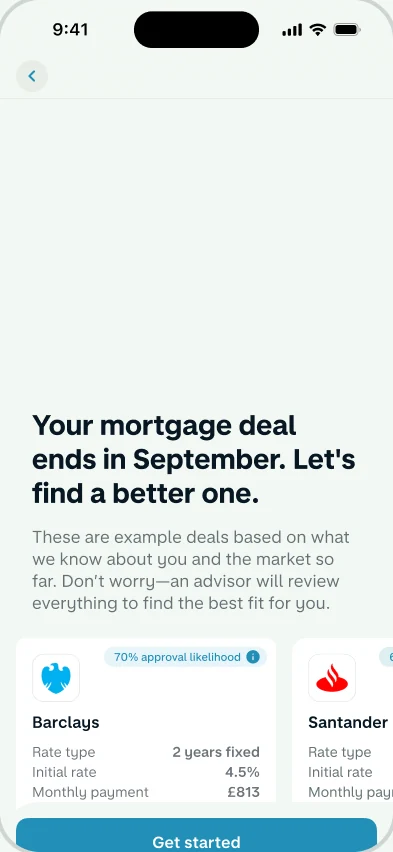
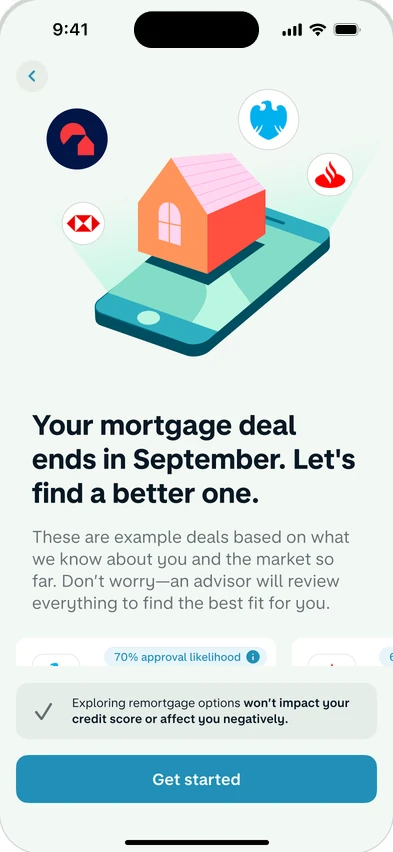
Remortgaging: real vision screen from Figma; complete the 'Your home' mock (update row, carousel, timeline, tab bar)
Claude-Session: https://claude.ai/code/session_019ui8k75LH47Bs5M9Jt4ABB

diff --git a/mortgage-rates.js b/mortgage-rates.js
@@ -41,8 +41,12 @@
   <div class="rt-pane rt-home" data-pane="0">
     <div class="rt-bar">${back}<b>${c('Your home', 'Tu casa')}</b></div>
     <div class="rt-card rt-mortgage"><div class="rt-card-head"><b>${c('Mortgage', 'Hipoteca')}</b></div>
-      <div class="rt-li">${bank}<span class="rt-li-text">${c('Your lender', 'Tu entidad')}<small>${c('£74,950 paid off · 37%', '£74.950 pagados · 37%')}</small></span><b class="rt-big">-£125,050</b></div></div>
-    <div class="rt-card rt-promo"><img src="${A}rates-banner.webp" alt="" width="620" height="306"><div class="rt-promo-body"><b>${c('See current mortgage rates', 'Mira los tipos hipotecarios actuales')}</b><p>${c('Compare mortgage rates personalised to your situation and the market. Estimates provided by Habito.', 'Compara tipos hipotecarios personalizados según tu situación y el mercado. Estimaciones de Habito.')}</p><span class="rt-soft" data-tap="try">${c('Try now', 'Probar')}</span></div></div>
+      <div class="rt-li">${bank}<span class="rt-li-text">${c('Your lender', 'Tu entidad')}<small>${c('£74,950 paid off · 37%', '£74.950 pagados · 37%')}</small></span><b class="rt-big">-£125,050</b></div>
+      <div class="rt-li rt-li-sep"><span class="rt-li-text">${c('Includes April’s payments', 'Incluye los pagos de abril')}<small>${c('Next update from your lender in 1 week', 'Próxima actualización de tu entidad en 1 semana')}</small></span><span class="rt-info rt-info-sm">i</span></div></div>
+    <div class="rt-carousel"><div class="rt-card rt-peek" aria-hidden="true"><span class="rt-peek-art"></span><i></i><i></i><i></i></div>
+    <div class="rt-card rt-promo"><img src="${A}rates-banner.webp" alt="" width="620" height="306"><div class="rt-promo-body"><b>${c('See current mortgage rates', 'Mira los tipos hipotecarios actuales')}</b><p>${c('Compare mortgage rates personalised to your situation and the market. Estimates provided by Habito.', 'Compara tipos hipotecarios personalizados según tu situación y el mercado. Estimaciones de Habito.')}</p><span class="rt-soft" data-tap="try">${c('Try now', 'Probar')}</span></div></div><div class="rt-card rt-peek rt-peek-next" aria-hidden="true"><span class="rt-peek-art"></span><b>${c('Track your remortgage', 'Sigue tu cambio de hipoteca')}</b><i></i><i></i></div></div>
+    <div class="rt-card rt-timeline" aria-hidden="true"><div class="rt-card-head"><b>${c('Timeline', 'Cronología')}</b><span class="rt-dots">•••</span></div><div class="rt-li"><span class="rt-check">✓</span><span class="rt-li-text">${c('Start of current deal', 'Inicio de la oferta actual')}<small>${c('June 2023', 'Junio de 2023')}</small></span></div></div>
+    <nav class="rt-tabs" aria-hidden="true"><span class="is-on"><svg viewBox="0 0 24 24" width="22" height="22"><path d="M4 10.5 12 4l8 6.5V20h-5.5v-6h-5v6H4z" fill="currentColor"/></svg>${c('Home', 'Inicio')}</span><span><svg viewBox="0 0 24 24" width="22" height="22"><path d="M12 21v-8m0 0c0-4 3-6 7-6 0 4-3 6-7 6Zm0 0C12 9 9.5 7 5.5 7c0 4 2.5 6 6.5 6Z" fill="none" stroke="currentColor" stroke-width="2" stroke-linejoin="round"/></svg>${c('Grow', 'Crecer')}</span><span><svg viewBox="0 0 24 24" width="22" height="22"><path d="M4 8h13m0 0-3-3m3 3-3 3M20 16H7m0 0 3-3m-3 3 3 3" fill="none" stroke="currentColor" stroke-width="2" stroke-linecap="round" stroke-linejoin="round"/></svg>${c('Payments', 'Pagos')}</span><span><svg viewBox="0 0 24 24" width="22" height="22"><path d="M9 9a3 3 0 1 1 4.5 2.6c-.9.5-1.5 1.2-1.5 2.2V15M12 19h.01" fill="none" stroke="currentColor" stroke-width="2.2" stroke-linecap="round"/></svg>${c('Help', 'Ayuda')}</span></nav>
   </div>
   <div class="rt-pane rt-rates" data-pane="1"><div class="rt-scroll">
     <div class="rt-bar rt-bar-plain">${back}<span class="rt-info">i</span></div>

diff --git a/case-study-mortgages.html b/case-study-mortgages.html
@@ -3,7 +3,7 @@
 <title>Remortgaging at Monzo — Laura Sampedro</title><meta name="description" content="How I led design for remortgaging at Monzo through a strategy reset and an acquisition, and found that the real problem was the decision, not the referral.">
 <link rel="preconnect" href="https://fonts.googleapis.com"><link rel="preconnect" href="https://fonts.gstatic.com" crossorigin><link href="https://fonts.googleapis.com/css2?family=DM+Sans:ital,wght@0,400;0,500;0,700;1,400&family=Libre+Baskerville:ital,wght@0,400;1,400&family=Fragment+Mono&display=swap" rel="stylesheet">
 <link rel="stylesheet" href="styles.css"><link rel="stylesheet" href="case-study.css?v=2"><link rel="stylesheet" href="flex.css?v=4">
-<link rel="stylesheet" href="mortgages.css?v=8"><link rel="stylesheet" href="case-experience.css?v=2"><link rel="stylesheet" href="mortgage-tracker.css?v=4"><link rel="stylesheet" href="mortgage-onboarding.css?v=8"><link rel="stylesheet" href="mortgage-rates.css?v=2"><link rel="stylesheet" href="case-format.css?v=4"><link rel="icon" type="image/png" sizes="32x32" href="favicon.png?v=flower-2">
+<link rel="stylesheet" href="mortgages.css?v=8"><link rel="stylesheet" href="case-experience.css?v=2"><link rel="stylesheet" href="mortgage-tracker.css?v=4"><link rel="stylesheet" href="mortgage-onboarding.css?v=8"><link rel="stylesheet" href="mortgage-rates.css?v=3"><link rel="stylesheet" href="case-format.css?v=4"><link rel="icon" type="image/png" sizes="32x32" href="favicon.png?v=flower-2">
 <link rel="shortcut icon" href="favicon.ico?v=flower-2">
 <link rel="icon" type="image/svg+xml" href="favicon.svg?v=flower-2">
 
@@ -77,4 +77,4 @@
 
 </main>
 <footer class="footer" id="contact"><div class="footer-inner"><p class="ms-footer-kicker mono-label">Want the full story?</p><h2 class="footer-title">I walk through the designs, the data and the decisions in about 45 minutes.</h2><div class="footer-actions"><a class="pill-button" href="mailto:lrsmpdr@gmail.com" target="_blank" rel="noopener noreferrer">Email me ↗</a><a href="https://www.linkedin.com/in/laura-sampedro/" target="_blank" rel="noopener noreferrer">LinkedIn ↗</a></div><div class="footer-row"><span class="mono-label">© 2026 Laura Sampedro de la Rosa</span><a class="mono-label" href="#top">Back to top ↑</a></div></div></footer></div><script>if(I18n.lang==="es")document.write('<script src="i18n-es.js?v=31"><\/script>')</script><script>I18n.run()</script><script src="script.js"></script><script src="case-study.js"></script><dialog class="fv-lightbox" aria-label="Case study visual detail"><button class="fv-close" type="button" aria-label="Close enlarged screen">Close ×</button><img alt=""></dialog><script src="case-media.js?v=1"></script><script src="case-experience.js?v=1"></script>
-<script src="mortgage-onboarding.js?v=2"></script><script src="mortgage-rates.js?v=2"></script><script src="mortgage-motion.js?v=4"></script><script src="case-format.js?v=1"></script></body></html>
+<script src="mortgage-onboarding.js?v=2"></script><script src="mortgage-rates.js?v=3"></script><script src="mortgage-motion.js?v=4"></script><script src="case-format.js?v=1"></script></body></html>

diff --git a/mortgage-rates.css b/mortgage-rates.css
@@ -109,3 +109,22 @@
 @media (prefers-reduced-motion:reduce){.rt-frame *{transition:none!important;animation:none!important}.rt-line .rt-path{stroke-dashoffset:0}}
 .mg-rates>.mg-tk-phone{order:1}.mg-rates>.mg-rates-steps{order:2}.mg-rates>.mg-tk-bar{order:3}.mg-rates>.mg-small{order:4;margin:0;max-width:56ch;text-align:center}
 @media(max-width:900px){.mg-rates .mg-tk-phone{margin:0 auto}}
+
+/* Home: full "Your home" screen — lender update row, card carousel, timeline and tab bar (as in Figma). */
+.rt-li-sep{border-top:.5px solid rgba(9,23,35,.12);min-height:58px}
+.rt-info-sm{width:22px;height:22px;font-size:13px;margin:0}
+.rt-carousel{display:flex;gap:10px;margin:16px -16px 0;transform:translateX(-292px);align-items:stretch}
+.rt-carousel>.rt-card{flex:none;width:312px;margin-top:0}
+.rt-peek{padding:0;overflow:hidden;display:flex;flex-direction:column;gap:10px}
+.rt-peek-art{display:block;height:154px;background:#1f4f63;flex:none}
+.rt-peek-next .rt-peek-art{background:#bfe7dc}
+.rt-peek b{margin:6px 16px 0;font-size:18px;font-weight:600;white-space:nowrap}
+.rt-peek i{display:block;height:10px;margin:0 16px;border-radius:5px;background:rgba(9,23,35,.08)}
+.rt-peek i:first-of-type{margin-top:16px}
+.rt-peek i:last-child{width:55%}
+.rt-timeline .rt-card-head{padding-bottom:4px}
+.rt-dots{color:var(--acc);font-size:10px;letter-spacing:2px}
+.rt-check{display:grid;place-items:center;width:28px;height:28px;border-radius:50%;background:#30383f;color:#fff;font-size:14px;flex:none}
+.rt-tabs{position:absolute;left:20px;right:20px;bottom:24px;z-index:2;display:grid;grid-template-columns:repeat(4,1fr);padding:6px;border-radius:99px;background:rgba(255,255,255,.88);box-shadow:0 4px 18px rgba(9,23,35,.12);backdrop-filter:blur(10px)}
+.rt-tabs span{display:flex;flex-direction:column;align-items:center;gap:2px;padding:8px 0 6px;border-radius:99px;font-size:11px;line-height:13px;font-weight:500;color:#091723}
+.rt-tabs span.is-on{background:rgba(33,143,183,.12);color:var(--acc)}
